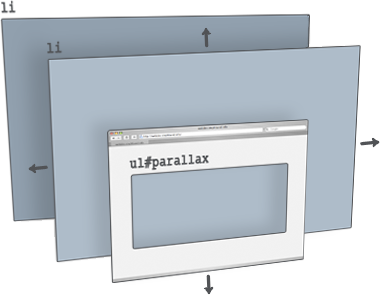
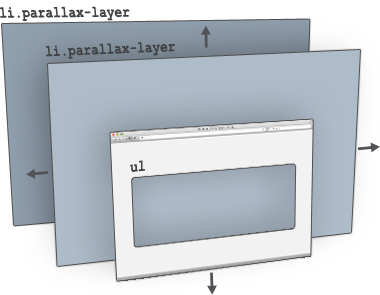
Adds new diagram and changes to changelog and readme

Changed region(s): [[0.0289, 0.3966, 0.9263, 1.0], [0.0, 0.0, 1.0, 0.7627]]

diff --git a/changelog.html b/changelog.html
@@ -1,78 +1,59 @@
 <!DOCTYPE html>
-
-<html xmlns="http://www.w3.org/1999/xhtml" xml:lang="en" lang="en">
-
+<html lang="en">
 <head>
-<meta http-equiv="Content-Type" content="text/html; charset=utf-8" />
-
-<title>webdev.stephband.info</title>
-
-<link rel="icon" type="image/png" href="images/favicon.png" />
-
-<style type="text/css" media="screen, projection">
-
-  @import "http://webdev.stephband.info/css/reset.css";
-  @import "http://webdev.stephband.info/css/typography.css";
-  @import "http://webdev.stephband.info/css/style_light.css";
-  @import "css/jparallax.css";
-
-  h1 {
-    width: 532px; height: 0;
-    overflow: hidden;
-    padding-top: 78px;
-    background: url('http://webdev.stephband.info/images/logo_stephband_medcoalblue.png') no-repeat;
-  }
-
-  #parallax
-    {position:relative; overflow:hidden; width:60em; height:20em;}
-    
-  #pullnav
-    {position: absolute; top:0; left:648px; width:240px; padding-left:18px; padding-right:18px; padding-top:12px; padding-bottom:10px;
-     background: url('../images/bg_pulldown.png') bottom;}
-  #housing
-    /*{height:0px;}*/
-  #contact
-    {margin-right:0.5em; }
-    
-  #pullnav a:focus, #pullnav a:hover
-    {color: #222222; text-decoration: none;}
-  #pullnav a
-    {color: #505050;}
-  #pullnav form textarea
-    {width:240px; height:80px;}
-  #pullnav #donate input
-    {margin: 0 1.2em;}
-  #pullnav #donate
-    {display:none;}
-  #pullnav #message
-    {display:none;}
-  #pullnav #message .website
-    {display:none;}
-  #pullnav .error
-    {color:	#7d4819;}  
-
-</style>
-
-<!--[if lt IE 7]>
-<script type="text/javascript" src="js/jquery.ifixpng.js"></script>
-<script type="text/javascript">jQuery(document).ready(function(){ jQuery('img[@src$=.png]').ifixpng(); });</script>
-<![endif]-->
-<!--[if lt IE 8]>
-<style type="text/css">
-@import "css/style_ie.css";
-</style>
-<![endif]-->
-
+	<meta charset="utf-8" />
+	<meta name="author" content="" />
+	<meta name="description" content="" />
+	
+	<title>jQuery.parallax</title>
+	
+	<script>document.documentElement.className = 'js';</script>
+	
+	<meta name="viewport" content="width=device-width, initial-scale=1.0, minimum-scale=1.0, maximum-scale=1.0" />
+	<!-- Force latest IE rendering engine & Chrome Frame -->
+	<meta http-equiv="X-UA-Compatible" content="IE=edge,chrome=1" />
+	<!-- Make IE recognise HTML5 elements for styling -->
+	<!--[if lte IE 8]>
+	<script src="//html5shiv.googlecode.com/svn/trunk/html5.js"></script>
+	<noscript>
+		<strong>Warning!</strong>
+		Your browser does not support HTML5 so some elements on this page are simulated using JScript. Unfortunately your browser has JScript disabled. Please enable it in order to display this page.
+	</noscript>
+	<![endif]-->
+	<!-- Disable image toolbar in IE6 -->
+	<!--[if lte IE 6]><meta http-equiv="imagetoolbar" content="no" /><![endif]-->
+	
+	<link rel="icon" type="image/png" href="images/favicon.png" />
+	<link rel="apple-touch-icon" href="/apple-touch-icon.png" />
+	
+	<link rel="stylesheet" type="text/css" href="http://stephband.info/css/template.min.css" />
+	<link rel="stylesheet" type="text/css" href="http://stephband.info/css/template.theme.min.css" />
+	
+	<link rel="stylesheet" type="text/css" href="http://stephband.github.com/css/site.layout.css" />
+	<link rel="stylesheet" type="text/css" href="http://stephband.github.com/css/docs.classes.css" />
+	
+	<!--[if (lt IE 9)&(!IEMobile)]>
+	<link rel="stylesheet" href="http://stephband.info/css/template.layout.32em.css" media="all" />
+	<link rel="stylesheet" href="http://stephband.info/css/template.layout.48em.css" media="all" />
+	<![endif]-->
+	<!--[if lte IE 8]><link rel="stylesheet" href="http://stephband.infocss/template.ie.css" /><![endif]-->
+	<!--[if IE 8]><link rel="stylesheet" href="http://stephband.infocss/template.ie8.css" /><![endif]-->
+	<!--[if IE 7]><link rel="stylesheet" href="http://stephband.infocss/template.ie7.css" /><![endif]-->
+	<!--[if IE 6]><link rel="stylesheet" href="http://stephband.infocss/template.ie6.css" /><![endif]-->
+	
+	<link rel="stylesheet" href="css/jquery.parallax.css" />
 </head>
 
 <body>
+	<header class="site_header" id="page_header">
+		<div class="site_wrap wrap">
+			<a class="logo_thumb thumb" href="http://stephband.info" title="stephband" rel="index">
+				<h1>stephband.info</h1>
+			</a>
+		</div>
+	</header>
 
-<div id="header">
-  <a href="http://webdev.stephband.info/"><h1>webdev.stephband.info</h1></a>
-</div>
-
-<div id="content">
-    
+<div class="site_wrap wrap" id="content">
     <h2>jParallax</h2>
     <h3>Repository</h3>
     <ul>
@@ -184,13 +165,5 @@
   </ul>
 
 </div>
-
-<script type="text/javascript" src="js/jquery-nightly.js"></script>
-<script type="text/javascript" src="http://webdev.stephband.info/events/frame/js/jquery.event.frame.js"></script>
-<script type="text/javascript" src="js/jquery.jparallax.js"></script>
-
-
-
-
 </body>
 </html>
